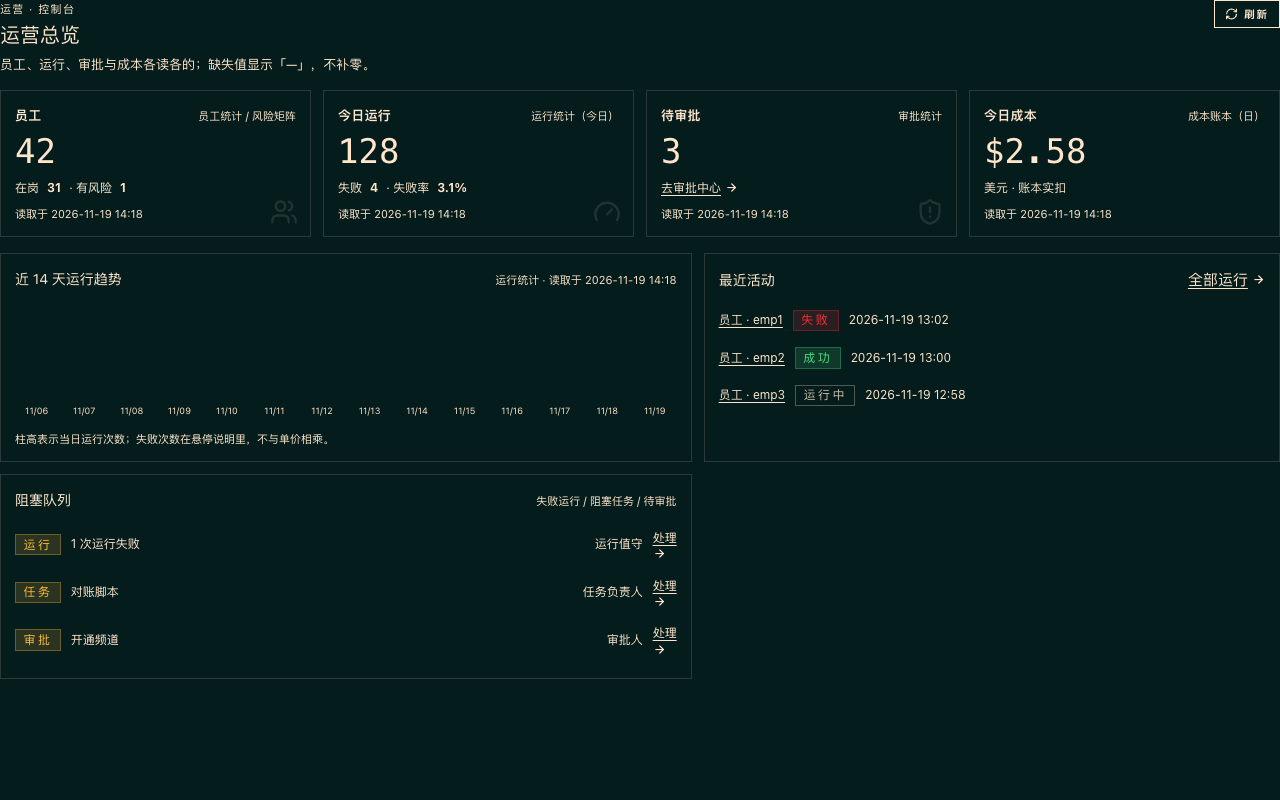
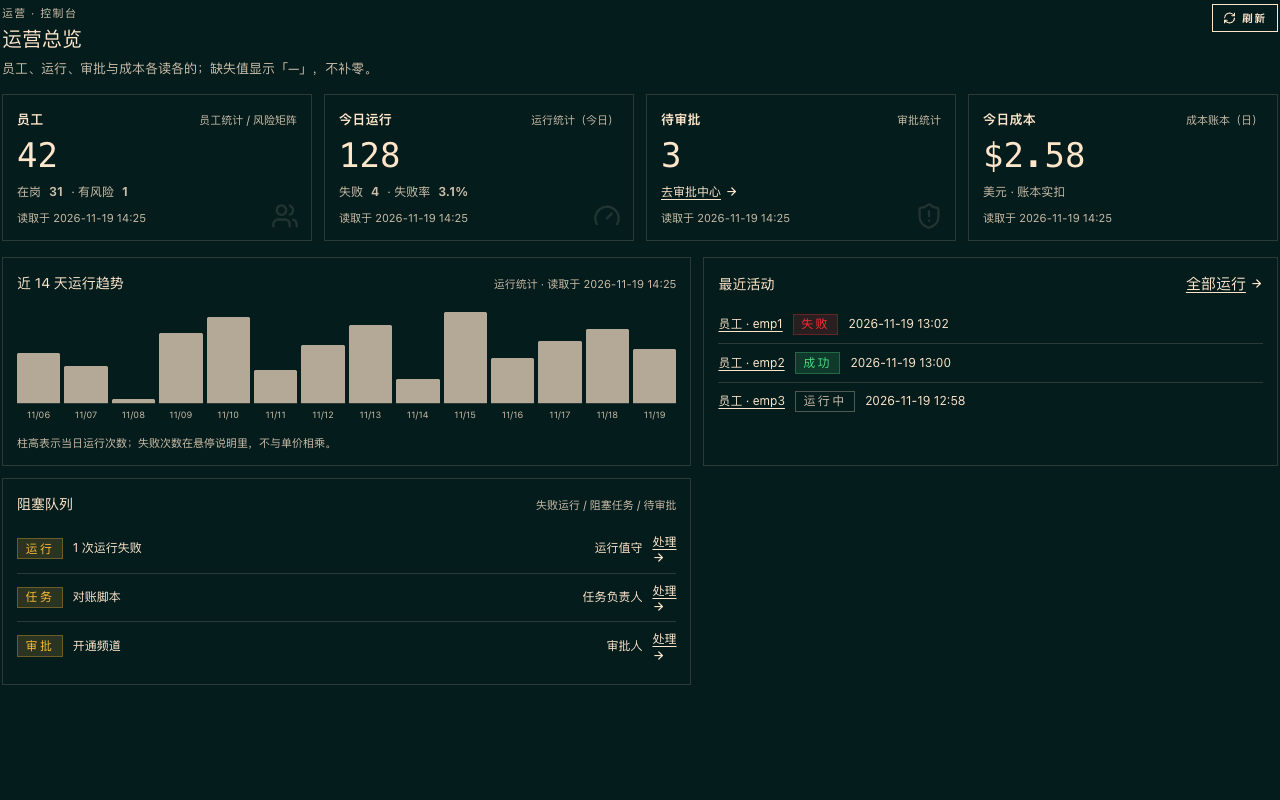
fix(console): overview token colors and edge padding (ov5)

diff --git a/web/src/modules/overview/overview.css b/web/src/modules/overview/overview.css
@@ -3,6 +3,7 @@
   flex-direction: column;
   gap: 16px;
   min-width: 0;
+  padding: 4px 2px 32px;
   overflow-x: hidden;
 }
 
@@ -16,7 +17,7 @@
 
 .ov5-eyebrow {
   margin: 0 0 2px;
-  color: var(--fg-3);
+  color: var(--color-muted-foreground);
   font-size: 11px;
   letter-spacing: 0.12em;
 }
@@ -29,7 +30,7 @@
 .ov5-sub {
   margin: 4px 0 0;
   max-width: 64ch;
-  color: var(--fg-2);
+  color: var(--color-muted-foreground);
   font-size: 13px;
 }
 
@@ -65,7 +66,7 @@
 }
 
 .ov5-source {
-  color: var(--fg-3);
+  color: var(--color-muted-foreground);
   font-size: 11px;
   font-weight: 400;
 }
@@ -82,7 +83,7 @@
   flex-wrap: wrap;
   align-items: center;
   gap: 4px 8px;
-  color: var(--fg-2);
+  color: var(--color-muted-foreground);
   font-size: 12px;
 }
 
@@ -92,19 +93,19 @@
   display: inline-flex;
   align-items: center;
   gap: 4px;
-  color: var(--fg);
+  color: var(--color-foreground);
   text-decoration: underline;
   text-underline-offset: 3px;
 }
 
 .ov5-asof {
-  color: var(--fg-3);
+  color: var(--color-muted-foreground);
   font-size: 11px;
 }
 
 .ov5-note {
   margin: 0;
-  color: var(--fg-3);
+  color: var(--color-muted-foreground);
   font-size: 12px;
   overflow-wrap: anywhere;
 }
@@ -116,8 +117,8 @@
   gap: 6px;
   margin-top: 8px;
   padding-top: 8px;
-  border-top: 1px dashed var(--border);
-  color: var(--fg-2);
+  border-top: 1px dashed var(--color-border);
+  color: var(--color-muted-foreground);
   font-size: 11px;
 }
 
@@ -186,8 +187,8 @@
     135deg,
     transparent,
     transparent 4px,
-    var(--bg-2, rgba(127, 127, 127, 0.12)) 4px,
-    var(--bg-2, rgba(127, 127, 127, 0.12)) 8px
+    var(--color-muted) 4px,
+    var(--color-muted) 8px
   );
 }
 
@@ -196,19 +197,19 @@
   width: 100%;
   height: 92px;
   align-items: flex-end;
-  border-bottom: 1px solid var(--border);
+  border-bottom: 1px solid var(--color-border);
 }
 
 .ov5-bar-track i {
   display: block;
   width: 100%;
   border-radius: 2px 2px 0 0;
-  background: var(--chart-1, var(--fg-2));
+  background: var(--midground-base);
   opacity: 0.7;
 }
 
 .ov5-bar em {
-  color: var(--fg-3);
+  color: var(--color-muted-foreground);
   font-size: 9px;
   font-style: normal;
   white-space: nowrap;
@@ -216,7 +217,7 @@
 
 .ov5-block-foot {
   margin: 0;
-  color: var(--fg-3);
+  color: var(--color-muted-foreground);
   font-size: 11px;
 }
 
@@ -235,7 +236,7 @@
   flex-wrap: wrap;
   align-items: center;
   gap: 6px 10px;
-  border-top: 1px solid var(--border);
+  border-top: 1px solid var(--color-border);
   padding: 8px 0;
   font-size: 12px;
 }
@@ -245,7 +246,7 @@
 }
 
 .ov5-rows a {
-  color: var(--fg);
+  color: var(--color-foreground);
   text-decoration: underline;
   text-underline-offset: 3px;
 }
@@ -261,15 +262,15 @@
   flex-direction: column;
   gap: 8px;
   padding: 14px;
-  border: 1px solid var(--border);
-  border-radius: var(--r-sm, 6px);
+  border: 1px solid var(--color-border);
+  border-radius: var(--radius-sm);
 }
 
 .ov5-skeleton span {
   display: block;
   height: 12px;
   border-radius: 4px;
-  background: var(--surface-2, var(--border));
+  background: var(--color-muted);
 }
 
 .ov5-skeleton span:nth-child(1) { width: 60%; }
@@ -281,7 +282,7 @@
   flex-wrap: wrap;
   align-items: center;
   gap: 8px;
-  color: var(--fg-2);
+  color: var(--color-muted-foreground);
   font-size: 12px;
 }
 
@@ -290,7 +291,7 @@
   flex-wrap: wrap;
   align-items: center;
   gap: 8px;
-  color: var(--fg-2);
+  color: var(--color-muted-foreground);
   font-size: 12px;
 }
 
@@ -299,16 +300,16 @@
   flex-wrap: wrap;
   align-items: center;
   gap: 6px;
-  color: var(--fg-3);
+  color: var(--color-muted-foreground);
   font-size: 11px;
   overflow-wrap: anywhere;
 }
 
 .ov5-req button {
-  border: 1px solid var(--border);
+  border: 1px solid var(--color-border);
   border-radius: 4px;
   padding: 2px 6px;
-  color: var(--fg-2);
+  color: var(--color-muted-foreground);
   font-size: 11px;
 }
 

diff --git a/docs/_artifacts/gov/DONE.md b/docs/_artifacts/gov/DONE.md
@@ -574,3 +574,11 @@ built /Users/kevin_studio/Projects/forks/console-gov/hermes_cli/web_dist/index.h
 - 未取得真实 200（本机无登录态）；数据源端点存在性与错误态由代码/测试覆盖。
 - 源端 asOf 未提供，页面只标「读取于」（读取完成时间），不冒充账本/统计的生成时间。
 - 页面未改壳层；`/overview` 路由与侧栏均由既有壳层提供。
+
+### 观察者复核修正（OV5）
+
+- 首轮观察者判 FAIL：1440 第 4 张 KPI 卡与右列卡边框贴边/缺失；1440/1280 趋势图无可见柱体。
+- 根因：`overview.css` 使用了本应用不存在的 shadcn 变量（`--fg-*`、`--border`、`--chart-1`、`--surface-2`、`--r-sm`、`--bg-2`），边框与柱体颜色为空；同时页面无内边距，卡片右边框落在视口边缘被裁。
+- 修复：全部改用 Tailwind v4 token（`--color-border`、`--color-foreground`、`--color-muted-foreground`、`--color-muted`、`--midground-base`、`--radius-sm`）；`.ov5-page` 增加 `padding: 4px 2px 32px` 与 `overflow-x: hidden`。
+- 复测（Chrome CDP）：1440/1280/375 `bodySW == vw`，`pageSW == pageCW`（1440/1280/375），14 根柱均渲染（首柱高度 50px）；375 改为 1500px 高截图，趋势/最近活动/阻塞全部入镜。三张截图已覆盖更新。
+- 验证：build EXIT 0；overview 定向 7/7；全量 118/1142；`tsc` 0。
